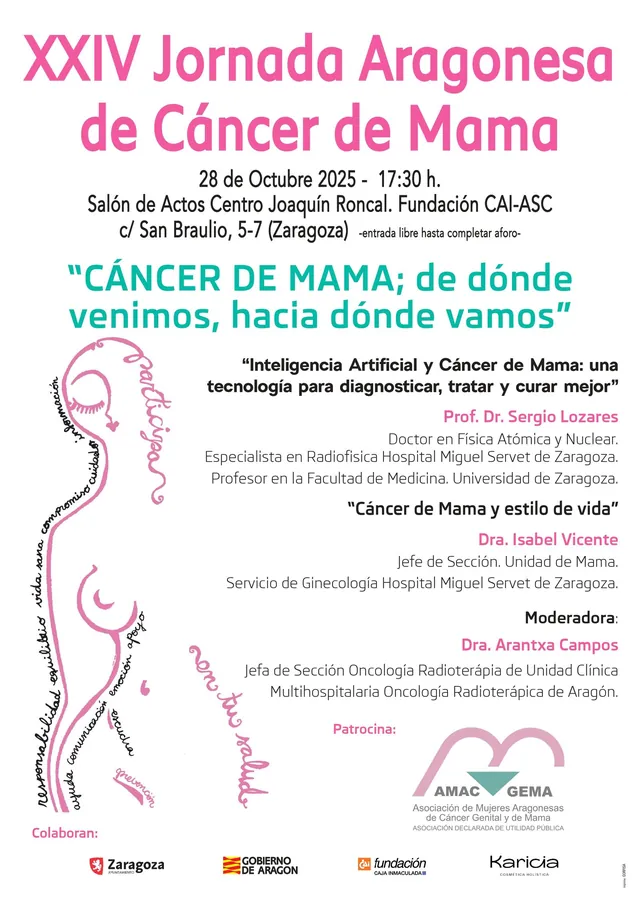
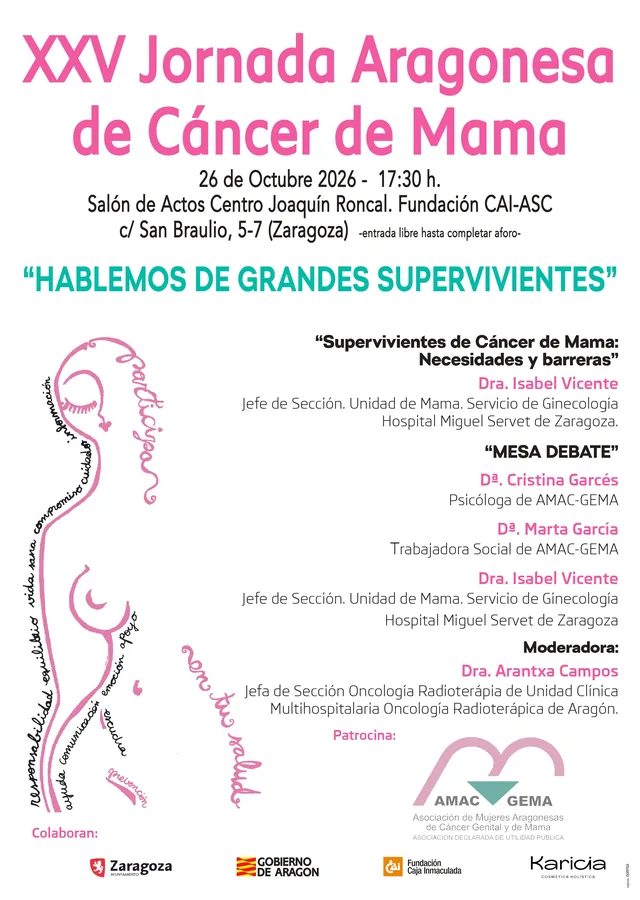
Jornada Aragonesa de Cancer de Mama: XXV edicion (2026), cartel y textos

diff --git a/pages/que-hacemos/sensibilizacion/proyecto-jornada-cancer-mama.html b/pages/que-hacemos/sensibilizacion/proyecto-jornada-cancer-mama.html
@@ -15,28 +15,28 @@ subnav: sensibilizacion
                 <div class="contenedor">
                     <div class="layout-jornada">
                         <div class="columna-imagen">
-                            <img src="img/proyecto-jornada-mama.webp" width="640" height="900" alt="Cartel de la XXIV Jornada Aragonesa de Cáncer de Mama">
+                            <img src="img/proyecto-jornada-mama.webp" width="640" height="900" alt="Cartel de la XXV Jornada Aragonesa de Cáncer de Mama">
                         </div>
                         <div class="columna-info">
                             <div class="bloque-info">
                                 <h2>Sobre las jornadas</h2>
                                 <p>Las jornadas de cáncer de mama organizadas por AMAC-GEMA se han consolidado a lo largo de su trayectoria como un referente de divulgación en Aragón. Su objetivo principal es abordar de forma integral los avances médicos, la investigación, el impacto emocional y los estilos de vida, sirviendo como punto de encuentro entre especialistas, pacientes y familiares.</p>
-                                <p>Se celebran cada año en octubre, en torno al Día Internacional del Cáncer de Mama, y ya suman más de veinte ediciones.</p>
+                                <p>Se celebran cada año en octubre, en torno al Día Internacional del Cáncer de Mama, y ya suman veinticinco ediciones.</p>
                                 <h3>Colaboran</h3><p>Ayuntamiento de Zaragoza, Gobierno de Aragón, Fundación CAI, Karicia</p>
                             </div>
 
-                            <h2>Última edición (2025)</h2>
+                            <h2>Última edición (2026)</h2>
                             <ul class="lista-apoyo">
-                                <li><strong>Lema:</strong> XXIV Edición “Cáncer de mama; de dónde venimos, hacia dónde vamos”.</li>
-                                <li><strong>Fecha y hora:</strong> 28 de octubre de 2025 a las 17:30 h.</li>
-                                <li><strong>Lugar:</strong> Salón de actos del Centro Joaquín Roncal, Fundación CAI (calle San Braulio, 5, Zaragoza).</li>
-                                <li><strong>Asistencia:</strong> la sala casi se llenó, con presencia de autoridades del Ayuntamiento de Zaragoza y del Gobierno de Aragón.</li>
+                                <li><strong>Lema:</strong> XXV Edición “Hablemos de grandes supervivientes”.</li>
+                                <li><strong>Fecha y hora:</strong> 26 de octubre de 2026 a las 17:30 h.</li>
+                                <li><strong>Lugar:</strong> Salón de actos del Centro Joaquín Roncal, Fundación CAI-ASC (calle San Braulio, 5-7, Zaragoza).</li>
+                                <li><strong>Entrada:</strong> libre hasta completar aforo.</li>
                             </ul>
 
                             <h3 class="subtitulo-proyecto">Ponencias y participantes</h3>
-                            <p><strong>Inteligencia Artificial y Cáncer de Mama:</strong> una tecnología para diagnosticar, tratar y curar mejor, impartida por el Prof. Dr. Sergio Lozares (Doctor en Física Atómica y Nuclear, especialista en Radiofísica y profesor en la Universidad de Zaragoza).</p>
-                            <p><strong>Cáncer de Mama y estilo de vida:</strong> impartida por la Dra. Isabel Vicente (Jefa de Sección de la Unidad de Mama del Servicio de Ginecología del Hospital Miguel Servet).</p>
-                            <p><strong>Modera:</strong> Dra. Arantxa Campos (Jefa de Sección de Oncología Radioterápica de la UCMORA).</p>
+                            <p><strong>Supervivientes de Cáncer de Mama: necesidades y barreras:</strong> impartida por la Dra. Isabel Vicente (Jefa de Sección de la Unidad de Mama del Servicio de Ginecología del Hospital Miguel Servet de Zaragoza).</p>
+                            <p><strong>Mesa debate:</strong> con Dª. Cristina Garcés (psicóloga de AMAC-GEMA), Dª. Marta García (trabajadora social de AMAC-GEMA) y la Dra. Isabel Vicente.</p>
+                            <p><strong>Modera:</strong> Dra. Arantxa Campos (Jefa de Sección de Oncología Radioterápica de la Unidad Clínica Multihospitalaria de Oncología Radioterápica de Aragón).</p>
                             
                             <div class="acciones-proyecto">
                                 <a class="boton boton-primario" href="{{CORREO:jornada-mama}}">Consultar más información</a>

diff --git a/pages/index.html b/pages/index.html
@@ -129,7 +129,7 @@ nav: index.html
   </div>
   <div class="rejilla-tarjetas">
     <a class="tarjeta tarjeta-enlace tarjeta-noticia tarjeta--primario" href="proyecto-jornada-cancer-mama.html">
-      <span class="foto-proyecto" role="img" aria-label="Fotografía de las Jornadas Aragonesas de Cáncer de Mama"><img src="img/proyecto-jornada-mama.webp" width="640" height="900" loading="lazy" decoding="async" alt="Cartel de la XXIV Jornada Aragonesa de Cáncer de Mama"></span>
+      <span class="foto-proyecto" role="img" aria-label="Fotografía de las Jornadas Aragonesas de Cáncer de Mama"><img src="img/proyecto-jornada-mama.webp" width="640" height="900" loading="lazy" decoding="async" alt="Cartel de la XXV Jornada Aragonesa de Cáncer de Mama"></span>
       <p class="etiqueta">Divulgación</p>
       <h3>Jornadas Aragonesas de Cáncer de Mama</h3>
       <p>Cada octubre, especialistas de Aragón explican los avances en cáncer de mama a pacientes, familias y ciudadanía.</p>
